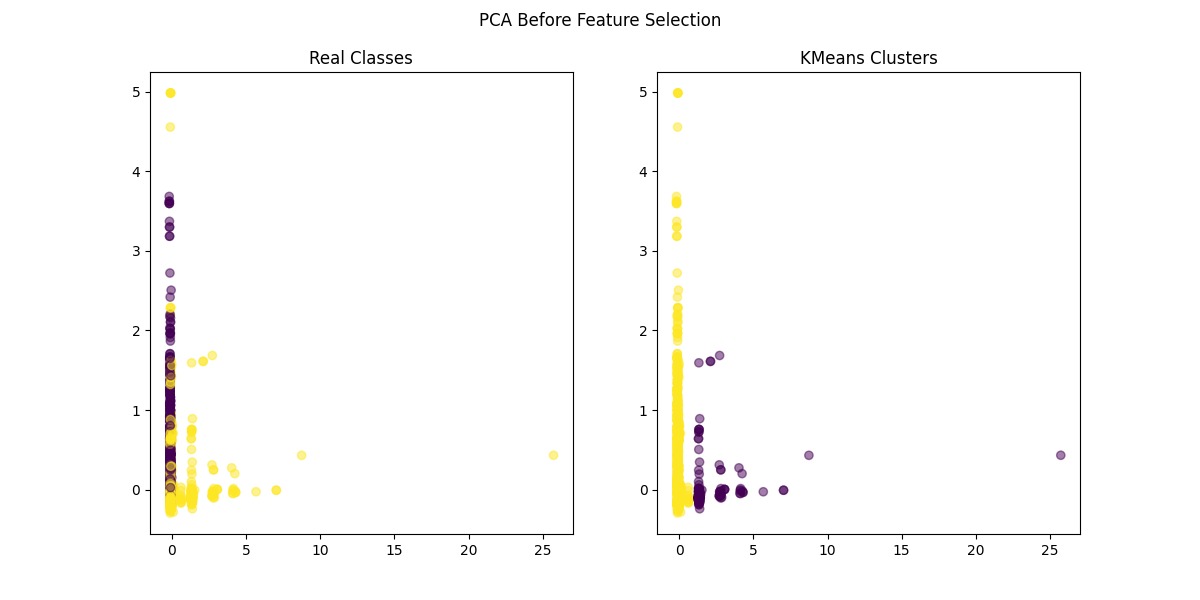
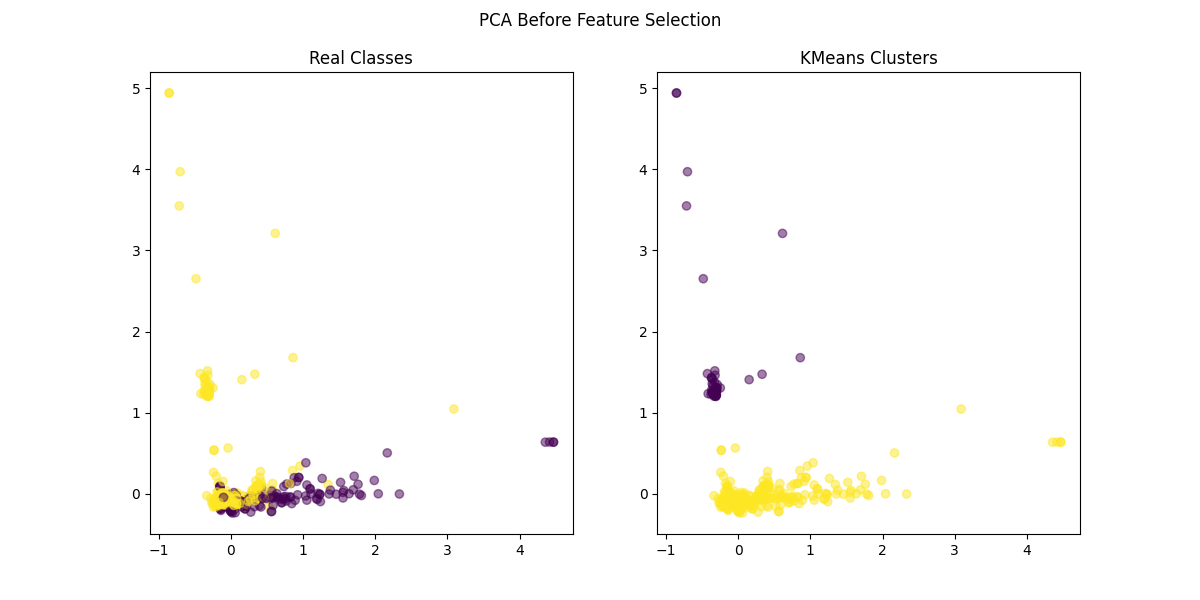
fix: minor changes

diff --git a/main3-cluster.py b/main3-cluster.py
@@ -26,78 +26,73 @@ feature_names = vector_df.columns.to_numpy()
 X_train, X_test, y_train, y_test = train_test_split(X, y, test_size=0.2, random_state=42)
 
 kmeans_before = KMeans(n_clusters=2, random_state=42)
-clusters_before = kmeans_before.fit_predict(X_train)
+kmeans_before.fit(X_train)
+clusters_before_train = kmeans_before.predict(X_train)
+clusters_before_test = kmeans_before.predict(X_test)
 
-ari_no_selection = adjusted_rand_score(y_train, clusters_before)
-silhouette_no_selection = silhouette_score(X_train, clusters_before)
-print(f"Adjusted Rand Index before feature selection: {ari_no_selection}")
-print(f"Silhouette Score before feature selection: {silhouette_no_selection}")
+external_estimation_before_selection = adjusted_rand_score(y_test, clusters_before_test)
+internal_estimation_before_selection = silhouette_score(X_train, clusters_before_train)
+print(f"Adjusted Rand Index: {external_estimation_before_selection}")
+print(f"Silhouette Score: {internal_estimation_before_selection}")
 '''
-Adjusted Rand Index before feature selection: -0.054515494142974213
-Silhouette Score before feature selection: 0.17299745225834856
+Adjusted Rand Index: -0.054515494142974213
+Silhouette Score: 0.17299745225834856
 '''
 
-
-selected_features = built_in_mine(X, y, feature_names)
-print("Selected features using filter method:", selected_features)
-
-selected_indices = [list(feature_names).index(f) for f in selected_features]
+selected_features_built = built_in_mine(X, y, feature_names)
+selected_indices = [list(feature_names).index(f) for f in selected_features_built]
 X_train_selected = X_train[:, selected_indices]
 X_test_selected = X_test[:, selected_indices]
 
 kmeans_after = KMeans(n_clusters=2, random_state=42)
-clusters_after = kmeans_after.fit_predict(X_train_selected)
+kmeans_after.fit(X_train_selected)
+clusters_after_train = kmeans_after.predict(X_train_selected)
+clusters_after_test = kmeans_after.predict(X_test_selected)
 
-
-ari_with_selection = adjusted_rand_score(y_train, clusters_after)
-silhouette_with_selection = silhouette_score(X_train_selected, clusters_after)
-print(f"Adjusted Rand Index after feature selection: {ari_with_selection}")
-print(f"Silhouette Score after feature selection: {silhouette_with_selection}")
-
+external_estimation_after_selection = adjusted_rand_score(y_test, clusters_after_test)
+internal_estimation_after_selection = silhouette_score(X_train_selected, clusters_after_train)
+print(f"Adjusted Rand Index: {external_estimation_after_selection}")
+print(f"Silhouette Score: {internal_estimation_after_selection}")
 '''
-Adjusted Rand Index after feature selection: 0.2501740036737811
-Silhouette Score after feature selection: 0.7634013246436302
+Adjusted Rand Index: 0.2501740036737811
+Silhouette Score: 0.7634013246436302
 '''
 
-
-selected_features = filter_mine(X, y, feature_names)
-print("Selected features using filter method:", selected_features)
-
-
-selected_indices = [list(feature_names).index(f) for f in selected_features]
+selected_features_filter = filter_mine(X, y, feature_names)
+selected_indices = [list(feature_names).index(f) for f in selected_features_filter]
 X_train_selected = X_train[:, selected_indices]
 X_test_selected = X_test[:, selected_indices]
 
-
 kmeans_after = KMeans(n_clusters=2, random_state=42)
-clusters_after = kmeans_after.fit_predict(X_train_selected)
+kmeans_after.fit(X_train_selected)
+clusters_after_train = kmeans_after.predict(X_train_selected)
+clusters_after_test = kmeans_after.predict(X_test_selected)
+
+external_estimation_after_selection = adjusted_rand_score(y_test, clusters_after_test)
+internal_estimation_after_selection = silhouette_score(X_train_selected, clusters_after_train)
+print(f"Adjusted Rand Index: {external_estimation_after_selection}")
+print(f"Silhouette Score: {internal_estimation_after_selection}")
+'''
+Adjusted Rand Index: 0.259674995429451
+Silhouette Score: 0.7911033743614592
+'''
 
 
-ari_with_selection = adjusted_rand_score(y_train, clusters_after)
-silhouette_with_selection = silhouette_score(X_train_selected, clusters_after)
-print(f"Adjusted Rand Index after feature selection: {ari_with_selection}")
-print(f"Silhouette Score after feature selection: {silhouette_with_selection}")
-
-
-selected_features = wrapper_mine(X, y, feature_names)
-print("Selected features using filter method:", selected_features)
-
-selected_indices = [list(feature_names).index(f) for f in selected_features]
+selected_features_wrap = wrapper_mine(X, y, feature_names)
+selected_indices = [list(feature_names).index(f) for f in selected_features_wrap]
 X_train_selected = X_train[:, selected_indices]
 X_test_selected = X_test[:, selected_indices]
 
-
 kmeans_after = KMeans(n_clusters=2, random_state=42)
-clusters_after = kmeans_after.fit_predict(X_train_selected)
+kmeans_after.fit(X_train_selected)
+clusters_after_train = kmeans_after.predict(X_train_selected)
+clusters_after_test = kmeans_after.predict(X_test_selected)
 
-
-ari_with_selection = adjusted_rand_score(y_train, clusters_after)
-silhouette_with_selection = silhouette_score(X_train_selected, clusters_after)
-print(f"Adjusted Rand Index after feature selection: {ari_with_selection}")
-print(f"Silhouette Score after feature selection: {silhouette_with_selection}")
-
-
+external_estimation_after_selection = adjusted_rand_score(y_test, clusters_after_test)
+internal_estimation_after_selection = silhouette_score(X_train_selected, clusters_after_train)
+print(f"Adjusted Rand: {external_estimation_after_selection}")
+print(f"Silhouette Score: {internal_estimation_after_selection}")
 '''
-Adjusted Rand Index after feature selection: 0.249688301230111
-Silhouette Score after feature selection: 0.7731011876543235
+Adjusted Rand: 0.249688301230111
+Silhouette Score: 0.7731011876543235
 '''

diff --git a/main2-accuracy.py b/main2-accuracy.py
@@ -25,8 +25,9 @@ label_mapper = {
 }
 y = np.array([label_mapper[label] for label in labels])
 X = vector_df.to_numpy()
+feature_names = vector_df.columns.to_numpy()
 
-X_train, X_test, y_train, y_test = train_test_split(vector_df, y, test_size=0.2, random_state=42)
+X_train, X_test, y_train, y_test = train_test_split(X, y, test_size=0.2, random_state=42)
 
 models = {
     'RandomForest': RandomForestClassifier(random_state=42),
@@ -34,22 +35,25 @@ models = {
     'DecisionTree': DecisionTreeClassifier(random_state=42)
 }
 
-for name, model in models.items():
-    model.fit(X_train, y_train)
-    y_pred = model.predict(X_test)
-    print(f"{name} accuracy before feature selection: {accuracy_score(y_test, y_pred)}")
+#for name, model in models.items():
+#    model.fit(X_train, y_train)
+#    y_pred = model.predict(X_test)
+#    print(f"{name} accuracy before feature selection: {accuracy_score(y_test, y_pred)}")
 
-selected_features_filter = built_in_mine(X_train, y_train, X_train.columns, k=10)
-X_train_filter = X_train[selected_features_filter]
-X_test_filter = X_test[selected_features_filter]
+selected_features_filter = built_in_mine(X_train, y_train, feature_names, k=30)
+selected_indices_filter = [list(feature_names).index(f) for f in selected_features_filter]
+X_train_filter = X_train[:, selected_indices_filter]
+X_test_filter = X_test[:, selected_indices_filter]
 
-selected_features_embedded = filter_mine(X_train, y_train, X_train.columns, k=10)
-X_train_embedded = X_train[selected_features_embedded]
-X_test_embedded = X_test[selected_features_embedded]
+selected_features_embedded = filter_mine(X_train, y_train, feature_names, k=30)
+selected_indices_embedded = [list(feature_names).index(f) for f in selected_features_embedded]
+X_train_embedded = X_train[:, selected_indices_embedded]
+X_test_embedded = X_test[:, selected_indices_embedded]
 
-selected_features_wrapper = wrapper_mine(X_train, y_train, X_train.columns, k=10)
-X_train_wrapper = X_train[selected_features_wrapper]
-X_test_wrapper = X_test[selected_features_wrapper]
+selected_features_wrapper = wrapper_mine(X_train, y_train, feature_names, k=30)
+selected_indices_wrapper = [list(feature_names).index(f) for f in selected_features_wrapper]
+X_train_wrapper = X_train[:, selected_indices_wrapper]
+X_test_wrapper = X_test[:, selected_indices_wrapper]
 
 for name, model in models.items():
     model.fit(X_train_filter, y_train)
@@ -63,15 +67,3 @@ for name, model in models.items():
     model.fit(X_train_wrapper, y_train)
     y_pred = model.predict(X_test_wrapper)
     print(f"{name} accuracy after wrapper method: {accuracy_score(y_test, y_pred)}")
-
-'''
-RandomForest accuracy before feature selection: 0.9757847533632287
-LogisticRegression accuracy before feature selection: 0.9820627802690582
-DecisionTree accuracy before feature selection: 0.9721973094170404
-RandomForest accuracy after filter method: 0.9426008968609866
-RandomForest accuracy after embedded method: 0.9434977578475336
-LogisticRegression accuracy after filter method: 0.9426008968609866
-LogisticRegression accuracy after embedded method: 0.9408071748878923
-DecisionTree accuracy after filter method: 0.9426008968609866
-DecisionTree accuracy after embedded method: 0.9434977578475336
-'''

diff --git a/plot.py b/plot.py
@@ -9,7 +9,7 @@ from sklearn.model_selection import train_test_split
 
 from BuildIn import built_in_mine
 
-data= open('SMS.tsv', encoding='UTF-8')
+data = open('SMS.tsv', encoding='UTF-8')
 file_lines = data.readlines()
 labels, raw_inputs = list(zip(*[tuple(file_line.split(maxsplit=1)) for file_line in file_lines]))
 
@@ -22,35 +22,34 @@ label_mapper = {
     'ham': 1
 }
 y = np.array([label_mapper[label] for label in labels])
-
 X = count_df.to_numpy()
 feature_names = count_df.columns.to_numpy()
 X_train, X_test, y_train, y_test = train_test_split(X, y, test_size=0.2, random_state=42)
 
 selected_features = built_in_mine(X, y, feature_names)
-print("Selected features using filter method:", selected_features)
-
 selected_indices = [list(feature_names).index(f) for f in selected_features]
-X_selected = X[:, selected_indices]
+X_train_selected = X_train[:, selected_indices]
+X_test_selected = X_test[:, selected_indices]
 
 kmeans_before = KMeans(n_clusters=2, random_state=42)
 kmeans_after = KMeans(n_clusters=2, random_state=42)
 
-clusters_before = kmeans_before.fit_predict(X)
-clusters_after = kmeans_after.fit_predict(X_selected)
+kmeans_before.fit(X_train)
+clusters_before = kmeans_before.predict(X_test)
+kmeans_after.fit(X_train_selected)
+clusters_after = kmeans_after.fit_predict(X_test_selected)
 
 pca_before = PCA(n_components=2, random_state=42)
 pca_after = PCA(n_components=2, random_state=42)
 
-X_pca_before = pca_before.fit_transform(X)
-X_pca_after = pca_after.fit_transform(X_selected)
+X_pca_before = pca_before.fit_transform(X_test)
+X_pca_after = pca_after.fit_transform(X_test_selected)
 
 tsne_before = TSNE(n_components=2, random_state=42, init='random')
 tsne_after = TSNE(n_components=2, random_state=42, init='random')
 
-X_tsne_before = tsne_before.fit_transform(X)
-X_tsne_after = tsne_after.fit_transform(X_selected)
-
+X_tsne_before = tsne_before.fit_transform(X_test)
+X_tsne_after = tsne_after.fit_transform(X_test_selected)
 
 def plot_data(X, y, clusters, title):
     plt.figure(figsize=(12, 6))
@@ -67,9 +66,8 @@ def plot_data(X, y, clusters, title):
     plt.savefig(f'{title}.png')
     plt.show()
 
+plot_data(X_pca_before, y_test, clusters_before, 'PCA Before Feature Selection')
+plot_data(X_pca_after, y_test, clusters_after, 'PCA After Feature Selection')
 
-plot_data(X_pca_before, y, clusters_before, 'PCA Before Feature Selection')
-plot_data(X_pca_after, y, clusters_after, 'PCA After Feature Selection')
-
-plot_data(X_tsne_before, y, clusters_before, 't-SNE Before Feature Selection')
-plot_data(X_tsne_after, y, clusters_after, 't-SNE After Feature Selection')
+plot_data(X_tsne_before, y_test, clusters_before, 't-SNE Before Feature Selection')
+plot_data(X_tsne_after, y_test, clusters_after, 't-SNE After Feature Selection')
